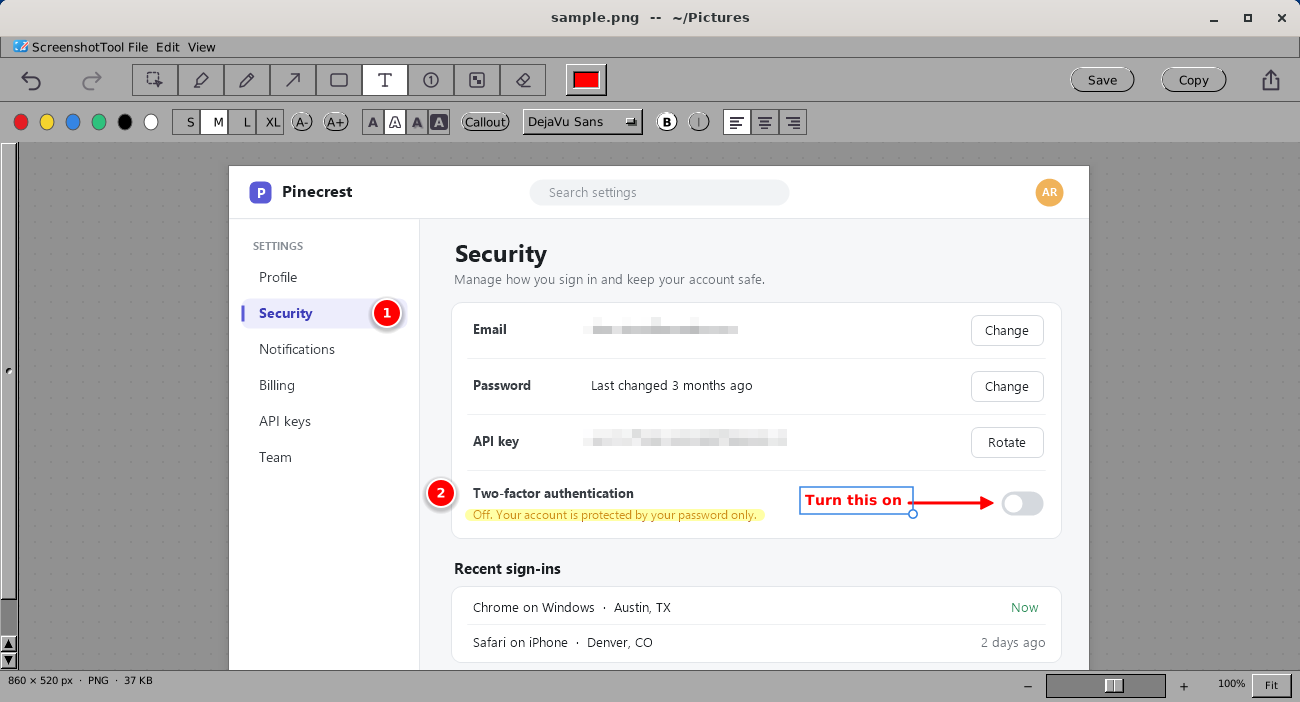
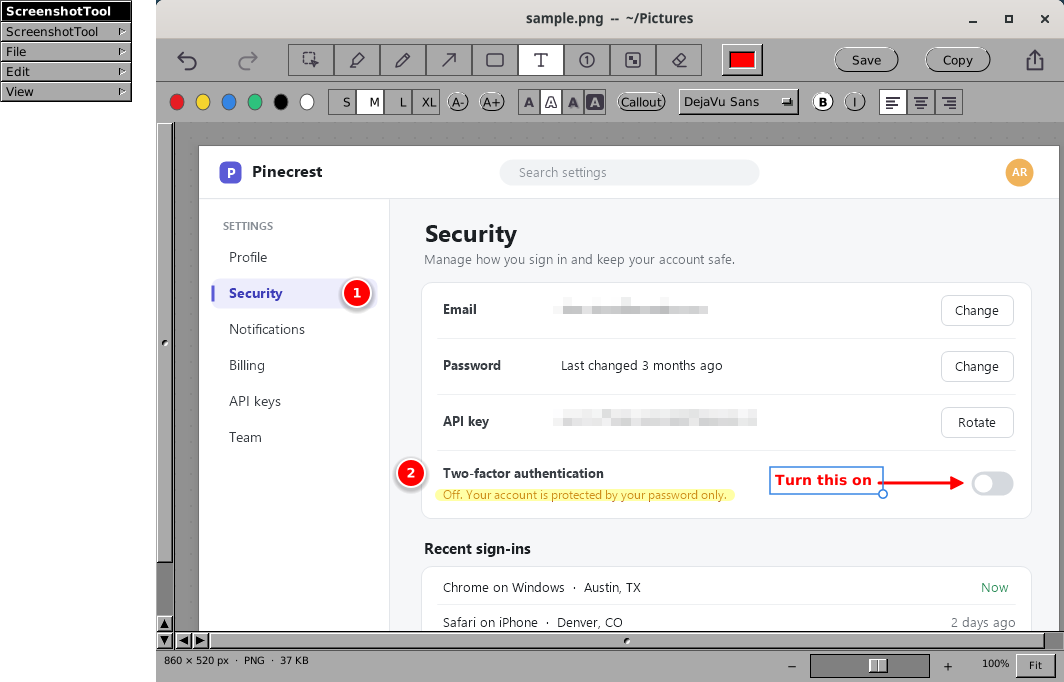
README: clean corners under Adwaita; GNUstep's own menus in the default-theme shot
Dan's review:
- Corners: the theme's shadow reached into the corner squares outside the
  window's rounded corners, and showed there as a faint grey wedge on a
  light page. clip_corners now caps each pixel's alpha with a rounded
  rectangle's, so everything outside the curve is transparent. The
  theme's own antialiased edge stays.
- The default-theme shot uses GNUstep's own menus (NSNextStepInterfaceStyle),
  a column beside the window. menu_window finds that column, and
  place_menu moves it level with the window's top-left. The shot is both
  windows, with nothing between them. The main window isn't moved or
  resized under this theme: GNUstep's backend doesn't redraw an
  xdotool-resized window (#60).

The default-theme image is this tree's build (with #288's menu title,
"ScreenshotTool" rather than "GSMainMenu") on the v0.3.0 AppImage's
GNUstep runtime, for its patched backend. ~/Pictures was a tmpfs in a
private mount namespace, so the title reads "~/Pictures".

Claude-Session: https://claude.ai/code/session_01V8rjzo3Qk8M7WcT9RYfYRW

diff --git a/README.md b/README.md
@@ -151,8 +151,9 @@ bar row.
 
 ![Marking up a settings page under GNUstep's default theme](docs/images/gnustep-text.png)
 
-Under GNUstep's default theme, as on other desktops: the window manager's title bar, with the
-menus in the window.
+Under GNUstep's default theme, as on other desktops: the window manager's title bar, here with
+GNUstep's own menus, a column of their own (`defaults write NSGlobalDomain NSMenuInterfaceStyle
+NSNextStepInterfaceStyle`; the AppImage puts them in the window).
 
 ![The highlighter's settings popover under the Adwaita theme](docs/images/adwaita-popover.png)
 
@@ -165,7 +166,8 @@ window (`*-window.png`; under Adwaita without the theme's shadow, with transpare
 corners). The images here are `adwaita-text-toolbar-window.png`, `default-text-toolbar-window.png`
 and `adwaita-popover-window.png`. The default theme's needs the release build's GNUstep backend,
 whose patch keeps the toolbar showing after the window resizes (#60): point `SCREENSHOT_APP` at a
-script that runs the release AppImage's binary with its runtime.
+script that runs the built app on the release AppImage's runtime. `SCREENSHOT_SAMPLE_DIR` opens the
+sample from a folder the title bar shows, such as `~/Pictures` in a throwaway account.
 
 ## Building from source
 
